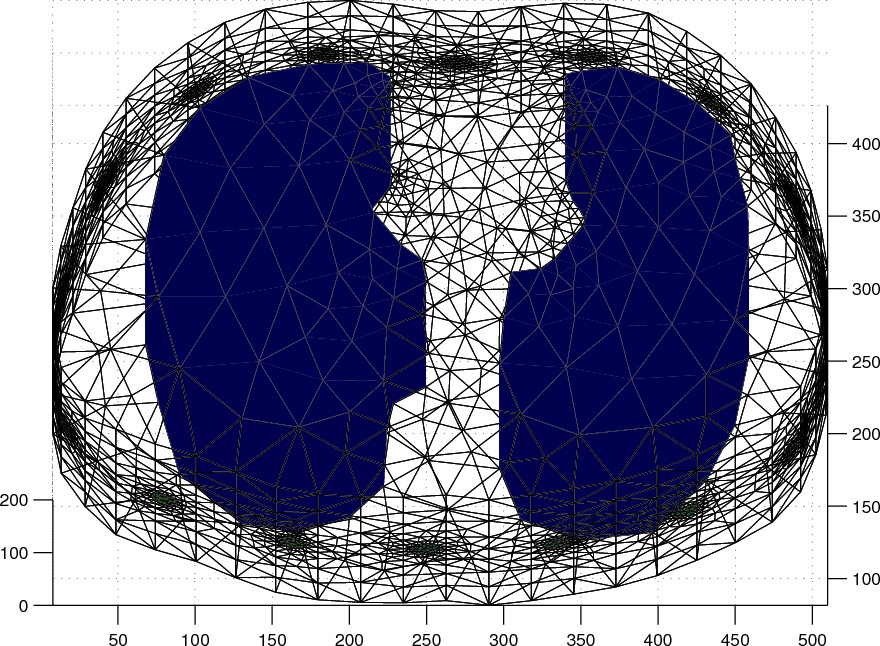
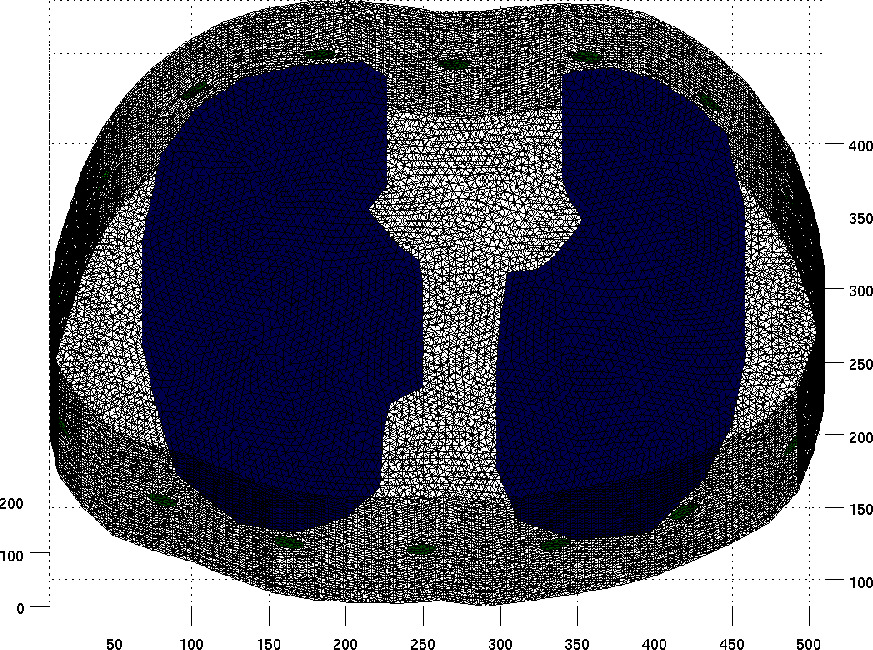
equipotential lines
git-svn-id: svn://svn.code.sf.net/p/eidors3d/code/trunk@2338 82006732-fb7e-4a22-9f28-86a212cce563

diff --git a/htdocs/tutorial/netgen/extrusion/thoraxmdl05.m b/htdocs/tutorial/netgen/extrusion/thoraxmdl05.m
@@ -1,18 +1,17 @@
-img_v.fwd_model.mdl_slice_mapper.npx = 200;
-img_v.fwd_model.mdl_slice_mapper.npy = 200;
+img_v.fwd_model.mdl_slice_mapper.npx = 1000;
+img_v.fwd_model.mdl_slice_mapper.npy = 1000;
 img_v.fwd_model.mdl_slice_mapper.level = [inf,inf,1.0];
 
 % Calculate at high resolution
  q = show_current(img_v, vh.volt(:,1));
 
-img = flipdim(imread('thorax-mdl.jpg'),1); imagesc(img);
+imgt= flipdim(imread('thorax-mdl.jpg'),1); imagesc(imgt);
 colormap(gray(256)); set(gca,'YDir','normal');
 
+sx = 250 - linspace(-130,130,15)';
+sy = 250 + linspace(-130,130,15)';
 
 hh=streamline(q.xp,q.yp, q.xc, q.yc,sx,sy); set(hh,'Linewidth',2);
 hh=streamline(q.xp,q.yp,-q.xc,-q.yc,sx,sy); set(hh,'Linewidth',2);
 
-axis equal; axis tight; axis off; print_convert pig_body06a.jpg
-
-
-
+axis equal; axis tight; axis off; print_convert thoraxmdl05a.jpg

diff --git a/htdocs/tutorial/netgen/extrusion/thoraxmdl06.m b/htdocs/tutorial/netgen/extrusion/thoraxmdl06.m
@@ -1,0 +1,24 @@
+img_v = img;
+% Stimulate between elecs 16 and 5 to get more interesting pattern
+img_v.fwd_solve.get_all_meas = 1;
+vh = fwd_solve(img_v);
+
+img_v = rmfield(img, 'elem_data');
+img_v.node_data = vh.volt(:,08);
+img_v.calc_colours.npoints = 256;
+imgs = calc_slices(img_v,[inf,inf,1.0]);
+
+
+clf
+imagesc(imgt); colormap(gray(256)); set(gca,'YDir','normal');
+hh=streamline(q.xp,q.yp, q.xc, q.yc,sx,sy); set(hh,'Linewidth',2);
+hh=streamline(q.xp,q.yp,-q.xc,-q.yc,sx,sy); set(hh,'Linewidth',2);
+
+[x,y] = meshgrid( linspace(2,size(imgt,1)-1,size(imgs,1)), ...
+                  linspace(size(imgt,2)-1,2,size(imgs,2)) );
+hold on;
+hh=contour(x,y,imgs,20);
+hh= findobj('Type','patch'); set(hh,'LineWidth',2)
+
+hold off; axis off; axis equal; ylim([50,450]);
+print_convert thoraxmdl06a.jpg

diff --git a/htdocs/tutorial/netgen/extrusion/thoraxmdl02.m b/htdocs/tutorial/netgen/extrusion/thoraxmdl02.m
@@ -1,5 +1,5 @@
 f = 100;
-[fmdl, mat_idx] = ng_mk_extruded_model({2,{thorax/f,rlung/f,llung/f},[4,50]},[16,1.00,1],[.1,0]);
+[fmdl, mat_idx] = ng_mk_extruded_model({2,{thorax/f,rlung/f,llung/f},[4,50],.1},[16,1.00,1],[.1,0,.05]);
 fmdl.nodes = fmdl.nodes*f;
 [stim,meas_sel] = mk_stim_patterns(16,1,[0,1],[0,1],{'no_meas_current'}, 1);
 fmdl.stimulation = stim;

diff --git a/htdocs/tutorial/netgen/extrusion/thoraxmdl01.m b/htdocs/tutorial/netgen/extrusion/thoraxmdl01.m
@@ -1,4 +1,3 @@
-
 load CT1.mat
 img = flipdim(imread('thorax-mdl.jpg'),1); %Keep up direction
 imagesc(img);
